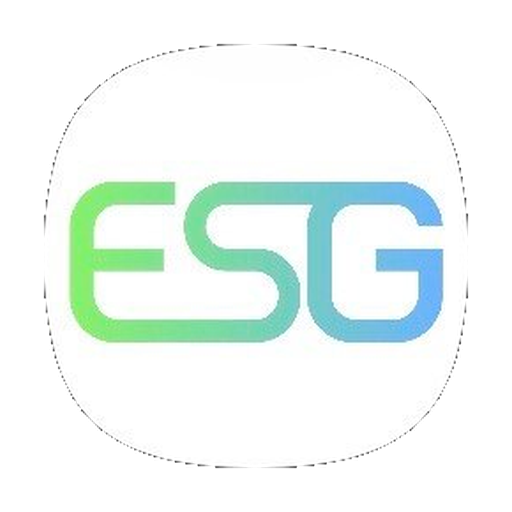
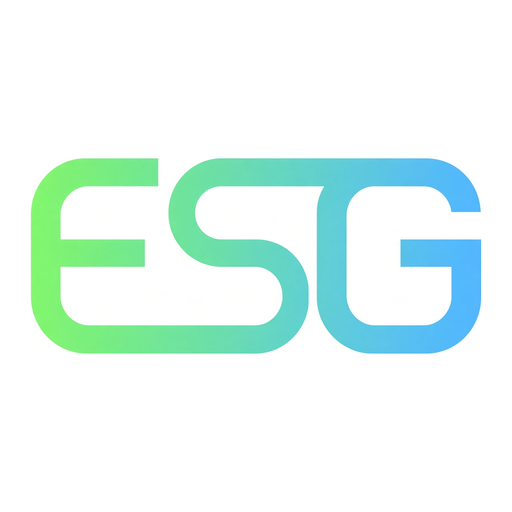
fix: 아이콘이 프레임을 꽉 채우게 — 원본 여백을 잘라낸다 (#17)
설치 화면에서 로고가 작게 박혀 보였다. 앱이 아이콘에 **자기 둥근 프레임**을 씌우는데
원본에도 여백이 들어 있어 여백이 두 겹이 됐다. 실측하니 글자가 세로 35% 밖에
차지하지 않았다.

`copy_icon` 이 배경색 기준으로 여백을 잘라내고(`trim_box`) 정사각으로 다시 채운다.
로고가 변의 88%(`ICON_FILL`)를 차지하게 맞춘다 — 프레임에 잘리지 않을 만큼만 남긴다.

원본도 바꿨다. 먼저 쓰던 그림에는 둥근 타일 테두리가 그려져 있어 앱 프레임과 겹쳤다.
테두리 없는 판(`assets/icon-source.jpg`)을 원본으로 두고 `icon.png` 는 거기서 만든다.

- assets/icon-source.jpg  원본 1408x1408 (테두리 없음)
- assets/icon.png         빌드가 쓰는 512x512, 88% 채움
- assets/logo-source.jpg  테두리 있는 첫 판 — 보관

--check 통과(번들 런타임으로 도구 12개) · 202 passed, 1 skipped.

diff --git a/scripts/build_mcpb.py b/scripts/build_mcpb.py
@@ -50,6 +50,7 @@ REPO_URL = "https://github.com/MarcoYou/open-esg-korea"
 #: (빈 문자열을 넣으면 스키마가 거부할 수 있고, 앱은 기본 아이콘을 쓴다).
 ICON_SRC = ROOT / "assets" / "icon.png"
 ICON_SIZE = 512          # 설치 화면·목록에서 쓰는 크기. 원본이 크면 줄여 넣는다(용량과 선명도 절충).
+ICON_FILL = 0.88         # 로고가 정사각 변의 몇 할을 차지할지. 앱이 씌우는 둥근 프레임에 잘리지 않을 만큼만 남긴다.
 
 
 def project_version() -> str:
@@ -138,6 +139,13 @@ def build_lib(dest: pathlib.Path) -> None:
     subprocess.run(base + ["--no-deps", str(ROOT)], check=True)
 
 
+def trim_box(im, bg, tol: int = 12):
+    """배경색과 다른 픽셀의 경계. 원본에 붙은 여백을 걷어내려고 쓴다."""
+    from PIL import Image, ImageChops
+    diff = ImageChops.difference(im, Image.new("RGB", im.size, bg)).convert("L")
+    return diff.point(lambda v: 255 if v > tol else 0).getbbox()
+
+
 def copy_icon(src: pathlib.Path, dest: pathlib.Path) -> None:
     """정사각 PNG 로 맞춰 넣는다. Pillow 가 있으면 크기를 줄이고, 없으면 원본을 그대로 쓴다.
 
@@ -149,17 +157,24 @@ def copy_icon(src: pathlib.Path, dest: pathlib.Path) -> None:
         shutil.copyfile(src, dest)
         log(f"아이콘: 원본 그대로 넣음 ({src.name}) — Pillow 가 없어 크기를 못 맞췄습니다")
         return
-    with Image.open(src) as im:
-        im = im.convert("RGBA")
-        if im.width != im.height:
-            log(f"아이콘: 정사각이 아닙니다({im.width}x{im.height}) — 가운데를 잘라 넣습니다")
-            side = min(im.size)
-            left, top = (im.width - side) // 2, (im.height - side) // 2
-            im = im.crop((left, top, left + side, top + side))
-        if im.width > ICON_SIZE:
-            im = im.resize((ICON_SIZE, ICON_SIZE), Image.LANCZOS)
-        im.save(dest, "PNG", optimize=True)
-    log(f"아이콘: {dest.name} {im.width}x{im.height}")
+    with Image.open(src) as raw:
+        im = raw.convert("RGB")
+        bg = im.getpixel((0, 0))                 # 모서리 색을 배경으로 본다
+        box = trim_box(im, bg)
+        if box is None:
+            log("아이콘: 배경만 있어 그대로 넣습니다")
+            im.save(dest, "PNG", optimize=True)
+            return
+        im = im.crop(box)
+        # 앱이 아이콘에 **자기 둥근 프레임**을 씌운다 — 원본 여백을 그대로 두면 여백이 두 겹이 돼
+        # 로고가 작아 보인다(실측 2026-09-08: 글자가 세로 35% 밖에 안 찼다). 잘라내고 다시 채운다.
+        side = round(max(im.size) / ICON_FILL)
+        canvas = Image.new("RGB", (side, side), bg)
+        canvas.paste(im, ((side - im.width) // 2, (side - im.height) // 2))
+        canvas = canvas.resize((ICON_SIZE, ICON_SIZE), Image.LANCZOS)
+        canvas.save(dest, "PNG", optimize=True)
+    fill = max(box[2] - box[0], box[3] - box[1]) / side * 100
+    log(f"아이콘: {dest.name} {ICON_SIZE}x{ICON_SIZE} (여백 잘라내고 {fill:.0f}% 채움)")
 
 
 def tool_entries() -> list[dict[str, str]]:
